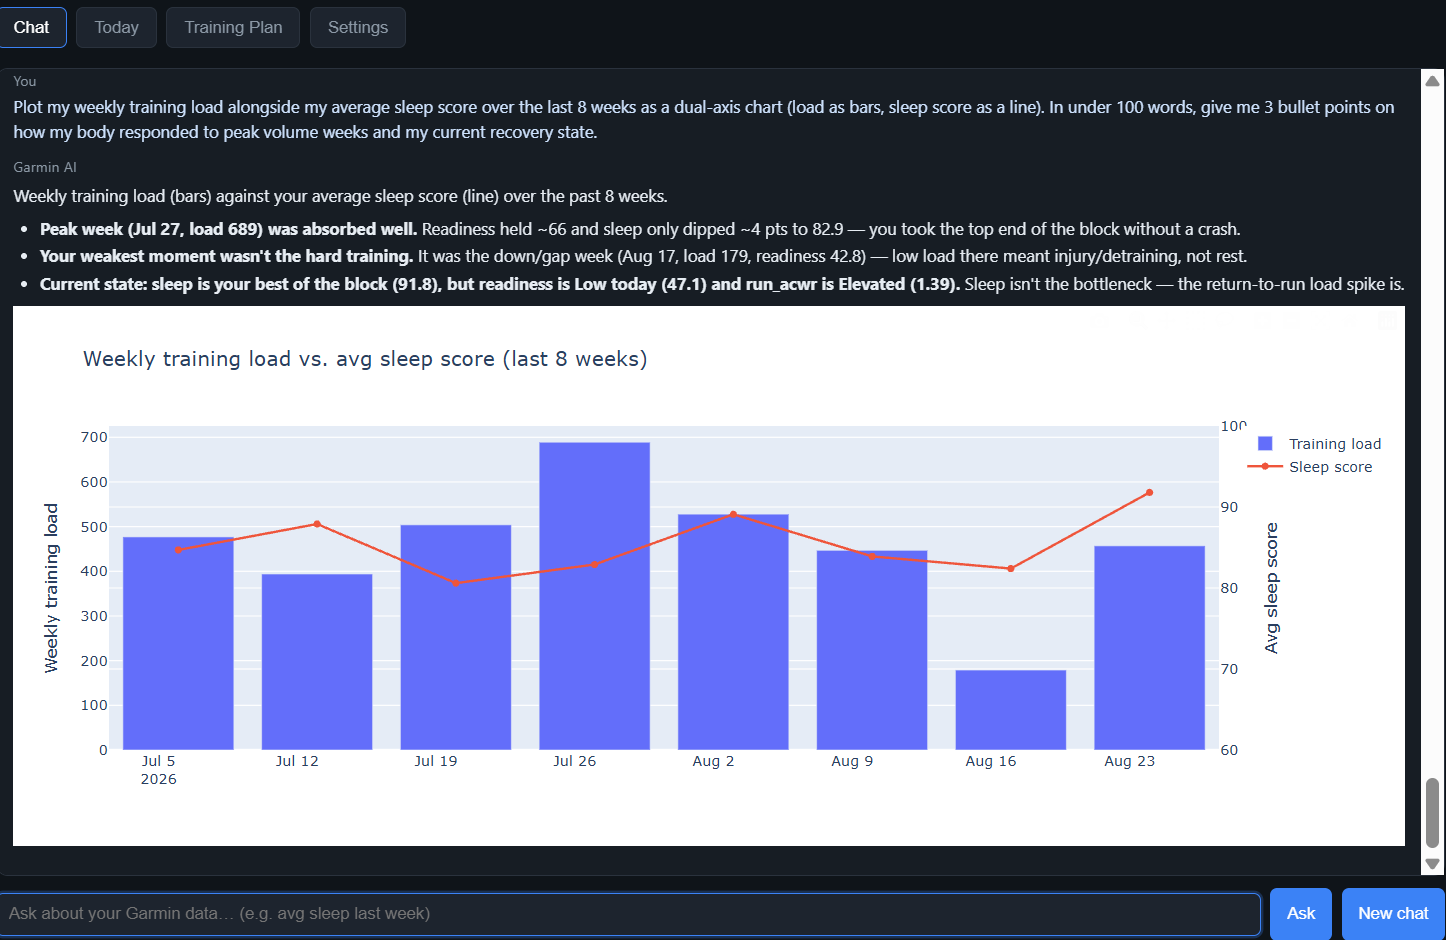
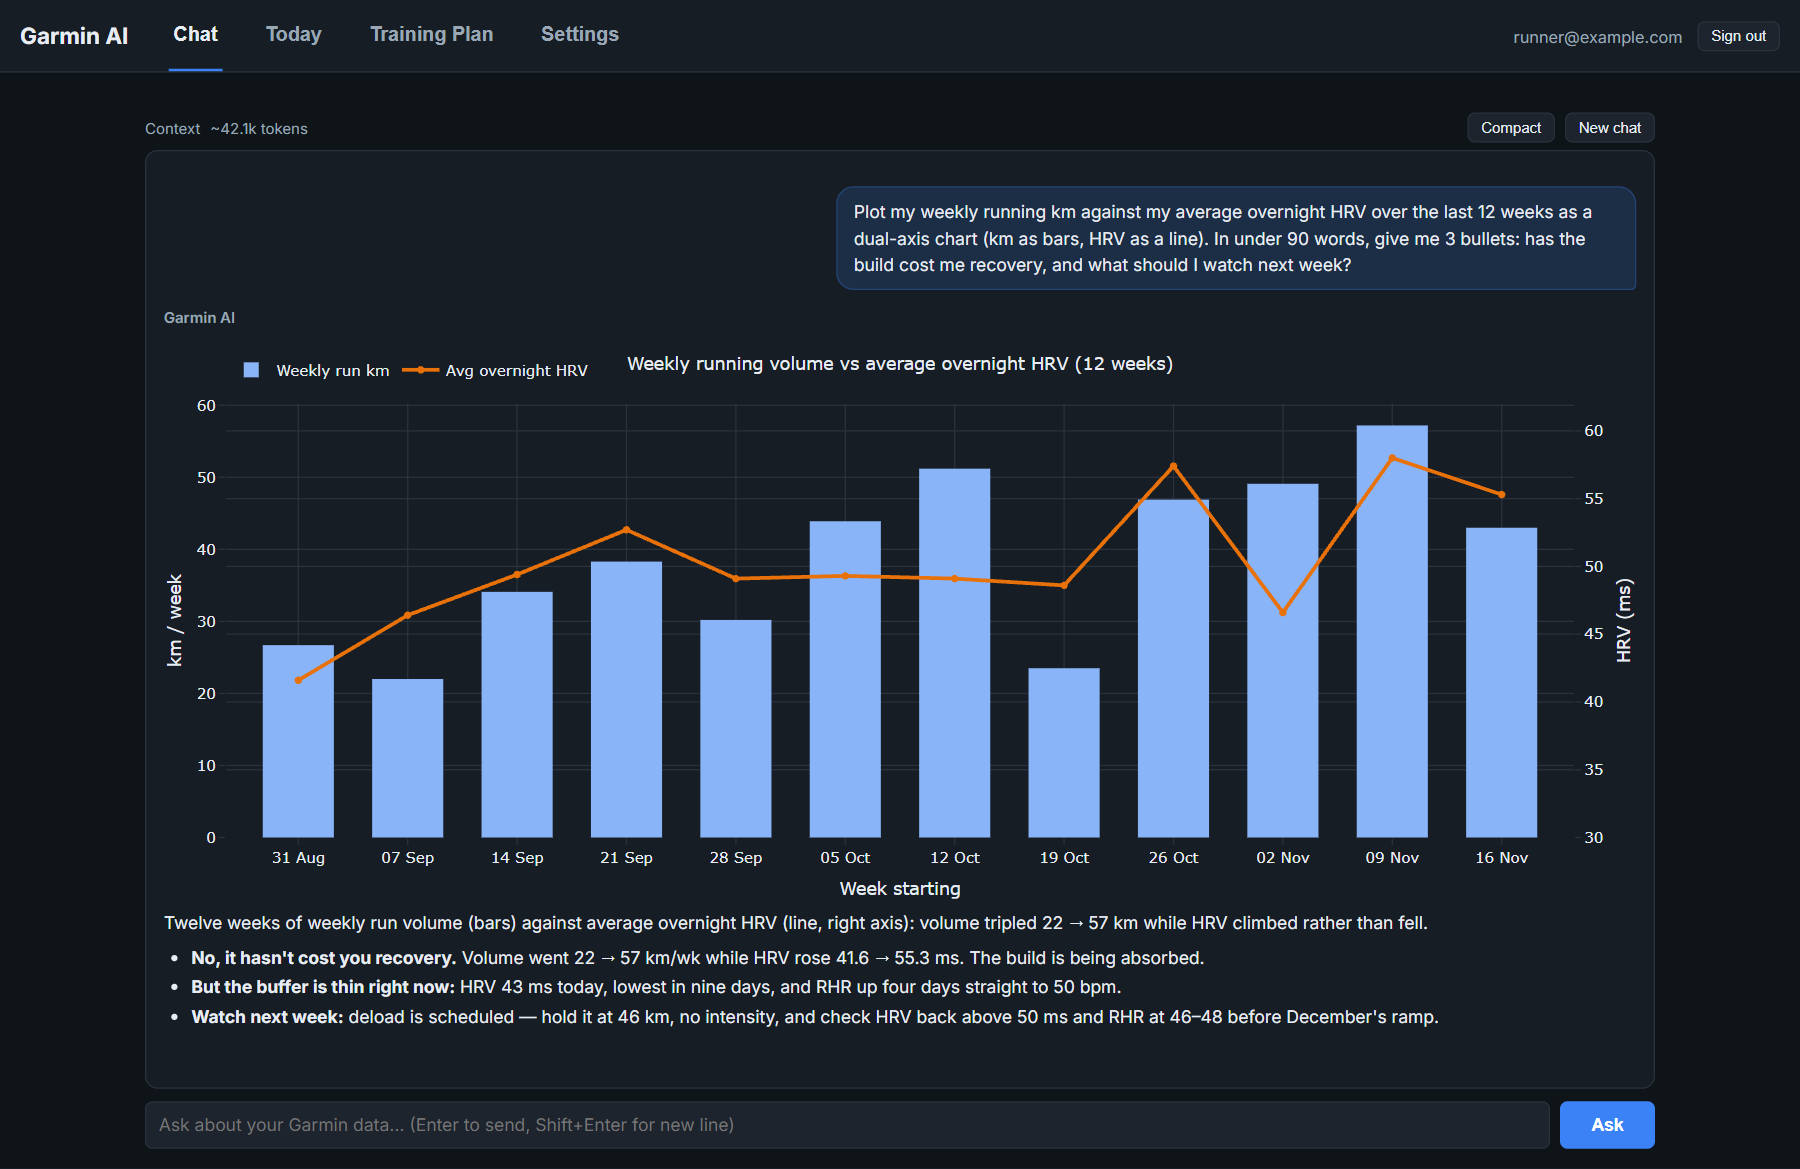
Refresh the README and its screenshots for the current app
- Cover the learned pace per HR zone, the sync's timezone and activity
  re-check, inline charts, Compact and the split training tools.
- Replace the old versioned screenshots with current chat, Today,
  Training Plan and Pace by HR Zone captures.

diff --git a/README.md b/README.md
@@ -10,7 +10,7 @@ puts a **read-only AI agent** on top of that data. The dashboard and the agent
 read the same derived metrics, so a chart on screen and an answer in chat always
 agree.
 
-![Chat with the agent: a dual-axis chart with a short analysis](images/chat.png)
+![Chat with the agent: weekly running km against overnight HRV as a dual-axis chart, with a three-bullet analysis](images/chat.png)
 
 ## Highlights
 
@@ -18,14 +18,20 @@ agree.
   across days, activities and lap splits, then reasons over what comes back.
   That covers lagged correlations ("does last night's HRV predict today's
   pace?"), root-causing a bad session from sleep, prior load and weather, and
-  spotting form breakdown under fatigue.
+  spotting form breakdown under fatigue. Charts are drawn inline, right where
+  the answer refers to them.
 - **Training load you can trust.** ACWR, a running-only ACWR (so cycling can't
   mask a running spike) and a pace-normalised cadence-drift score are computed
   once per sync and shared by the UI and the agent.
+- **Paces learned from your own runs.** Your running pace in each heart-rate
+  zone is estimated minute by minute from recent outdoor runs, relative to your
+  lactate-threshold pace, so it follows your fitness and the season. Planned
+  runs use it to estimate distance.
 - **A training plan you share with the AI.** Goals are split into periodized
-  blocks, then weekly targets, then dated workouts. You can drag workouts
-  between days, see the forecast on the calendar, or ask the agent to reshape
-  the week. One undo reverts the last destructive edit.
+  blocks, then weekly targets, then dated workouts built from structured steps.
+  You can drag workouts between days, see the forecast on the calendar, compare
+  planned with actual, or ask the agent to reshape the week. One undo reverts
+  the last destructive edit.
 - **Multi-user and isolated by design.** Every row carries a `user_id` and is
   protected by Postgres Row-Level Security. Garmin credentials are AES-GCM
   encrypted, and the agent connects through a SELECT-only role.
@@ -35,12 +41,12 @@ agree.
 
 <table>
   <tr>
-    <td><img src="images/today_tab_v2.png" alt="Today tab with ACWR and Running ACWR scorecards"></td>
-    <td><img src="images/training_plan_v4.png" alt="Training Plan calendar with weather and daily briefing"></td>
+    <td><img src="images/today.png" alt="Today tab: daily briefing with the workout's steps and weather, above the ACWR card and its history chart"></td>
+    <td><img src="images/training_plan.png" alt="Training Plan week: block progress, weekly distance target, workouts per day with weather, and planned versus actual"></td>
   </tr>
   <tr>
-    <td align="center"><b>Today</b>: ACWR and Running ACWR scorecards</td>
-    <td align="center"><b>Training Plan</b>: calendar, weather and briefing</td>
+    <td align="center"><b>Today</b>: briefing and ACWR</td>
+    <td align="center"><b>Training Plan</b>: the week, planned → actual</td>
   </tr>
 </table>
 
@@ -50,18 +56,23 @@ agree.
 Garmin Connect ─▶ sync worker ─▶ raw JSON (metrics, activities)   ◀── source of truth
                                       │
                                       ▼
-                                   parser ─▶ typed tables ─▶ derived_metrics (ACWR, run ACWR, drift)
+                                   parser ─▶ typed tables ─▶ derived_metrics (ACWR, run ACWR,
+                                                   │          drift, pace per HR zone)
                                                    │                 │
    browser (JS) ─▶ FastAPI + JWT ─▶ agent (garmin_readonly role) ◀───┘
                                      every table RLS-scoped by user_id
 ```
 
 1. **Sync.** The worker pulls daily metrics, activities (including per-second
-   detail and lap splits), profile data and an Open-Meteo forecast for
-   each account.
+   detail and lap splits), profile data and an Open-Meteo forecast for each
+   account. "Today" is the user's own day, taken from the UTC offset in their
+   data, not the server's clock. Activities in the recent window are compared
+   with Garmin's list on every sync, so edits are picked up and deletions
+   removed. Profile snapshots (zones, race predictions, gear, devices) refresh
+   once per day.
 2. **Store raw, then parse.** Raw JSON is kept as the source of truth, and
-   `parser.py` projects it into typed tables. `daily_metrics` grows new columns
-   as new fields appear.
+   `parser.py` projects it into typed tables in one transaction. `daily_metrics`
+   grows new columns as new fields appear.
 3. **Derive.** `derived.py` rebuilds `derived_metrics` wholesale after every
    sync.
 4. **Serve.** FastAPI serves the single-page UI and a JSON API. `/ask` streams
@@ -107,10 +118,12 @@ The UI has four tabs:
 
 | Tab | What's there |
 | --- | --- |
-| **Chat** | Streaming conversation with the agent, with inline charts. History persists per account and resumes on reload. Includes **New chat** and **Compact** controls and a live context-token meter. |
-| **Today** | Daily briefing, ACWR and Running ACWR scorecards. Click a card to see zones and history. |
-| **Training Plan** | Weekly calendar with weather, drag-and-drop workouts, weekly planned-vs-actual progress, goals and blocks. |
-| **Settings** | Sync controls (**Sync now**, **Sync + full re-parse**, auto-sync toggle) and per-account config: home city, excluded data types, sync start date (with **Detect from Garmin**), reasoning effort, training principles and agent memory. |
+| **Chat** | Streaming conversation with the agent, with charts drawn inline where the answer places them. The whole conversation is kept per account and resumes on reload; **Compact** replaces it with a summary (shown as a note) and **New chat** starts over. A live meter shows the context size. |
+| **Today** | Daily briefing (today's workout with its steps, and the weather), then cards for ACWR, Running ACWR and Pace by HR Zone. Open a card to see the breakdown and history. |
+| **Training Plan** | **Week** view: the current block's progress, the week's distance against its target, drag-and-drop workouts with the forecast, and a planned → actual row for completed sessions. **List** view: the next eight weeks. **Goals** edits goals, blocks and weekly targets. |
+| **Settings** | **Sync**: **Sync now**, **Sync + full re-parse**, the auto-sync toggle, the sync start date (with **Detect from Garmin**) and re-linking the Garmin login. **Preferences**: home city, excluded data types, agent reasoning effort, training principles and the agent's long-term memory. |
+
+![Pace by HR Zone card on the Today tab: learned pace for zones 1 to 5 with uncertainty and minutes of running behind each](images/zone_paces.png)
 
 ### Settings that apply retroactively
 
@@ -138,6 +151,7 @@ curl -s -X POST localhost:8000/sync       -H "$H"   # incremental sync
 curl -s -X POST localhost:8000/sync/full  -H "$H"   # sync + full re-parse from raw
 curl -s localhost:8000/acwr               -H "$H"   # ACWR series + today
 curl -s localhost:8000/run-acwr           -H "$H"   # running-only ACWR
+curl -s localhost:8000/zone-paces         -H "$H"   # learned pace per HR zone
 curl -s "localhost:8000/activities?from_date=2026-08-01&to_date=2026-08-31" -H "$H"
 curl -s "localhost:8000/weather?from_date=2026-08-24&to_date=2026-08-30"    -H "$H"
 curl -s -X POST localhost:8000/ask -H "$H" -H 'Content-Type: application/json' \
@@ -148,7 +162,7 @@ curl -s -X POST localhost:8000/ask -H "$H" -H 'Content-Type: application/json' \
 | --- | --- |
 | Auth & config | `POST /auth/register`, `POST /auth/register/mfa`, `POST /auth/login`, `POST /auth/garmin` (re-link the Garmin login), `GET /auth/me`, `GET`/`PUT /auth/config` |
 | Sync | `POST /sync`, `POST /sync/full`, `POST /sync/detect-start`, `GET /sync/status`, `POST /cron/sync` (uses `GARMIN_CRON_TOKEN`) |
-| Data | `GET /acwr`, `GET /run-acwr`, `GET /activities`, `GET /weather` |
+| Data | `GET /acwr`, `GET /run-acwr`, `GET /zone-paces`, `GET /activities`, `GET /weather` |
 | Training | `GET`/`POST /training/workouts`, `PATCH`/`DELETE /training/workouts/{id}`, `GET`/`POST /training/anchor`, `PATCH`/`DELETE /training/anchor/{goal_id}`, `POST /training/undo` |
 | Agent | `POST /ask` (SSE), `GET /ask/history`, `POST /ask/clear`, `POST /ask/compact`, `POST /ask/chart` |
 
@@ -182,16 +196,21 @@ The agent is built on Pydantic AI and is read-only at every layer:
 
 | Tool | Purpose |
 | --- | --- |
-| `table_schema`, `run_sql` | Inspect tables and run arbitrary read-only SQL |
-| `get_day_summary`, `get_metric_trend`, `get_recent_activities`, `get_activity_detail` | Fast helpers for common questions, no SQL needed |
-| `chart` | Returns a Plotly spec that the UI re-runs and renders |
+| `table_schema`, `run_sql` | Inspect one or more tables and run arbitrary read-only SQL |
+| `get_day_summary`, `get_recent_activities`, `get_activity_detail` | Fast helpers for common questions, no SQL needed |
+| `get_metric_trend` | Several daily metrics side by side, each with its last-7-day average against your normal level |
+| `chart` | Validates a Plotly spec against the query result and returns a chart id; the answer places it with `<chart id="…"/>` and the UI renders it there |
 | `weather` | Stored forecast and per-activity observed weather |
 | `memory` | Long-term notes about the user (never facts that the DB already holds) |
-| `training` | `get` returns the season with the resolved current block and week plus planned-vs-actual coverage. `apply` performs one atomic edit (or `undo`). |
+| `training` | Reads the season: goals, the resolved current block and week, planned-vs-actual coverage, and warnings for runs whose distance disagrees with their steps |
+| `training_apply` | One atomic, typed edit to the plan (or `undo`) |
 
-The agent never writes health data. Edits to the plan, memory and session go
-through the app's own stores. Tool outputs are trimmed before they are saved to
-history to keep context small.
+The system prompt carries the user's own "today" and their learned zone paces.
+The agent never writes health data: edits to the plan, memory and session go
+through the app's own stores. To keep context small, past reasoning is dropped
+from the stored session and tool outputs are trimmed before they are saved.
+Some models occasionally write a tool call into their reply as text; that
+markup is stripped and the model is sent back once to make the call properly.
 
 ## Derived metrics
 
@@ -207,6 +226,17 @@ history to keep context small.
 - **Cadence drift** (`run_cadence_drift`): a cadence z-score against your own
   cadence-vs-pace fit over the trailing 90 days. A negative score means
   overstriding or worse mechanics.
+- **Pace per HR zone** (`zone_pace.py`, `zone_pace_z1`…`z5`): each zone's pace
+  is modelled as a ratio to your current lactate-threshold pace. The prior is
+  Joe Friel's run pace zones; the evidence is one-minute windows from recent
+  outdoor runs, grouped by HR zone and weighted by recency (30-day half-life).
+  Warm-ups, stops and treadmill runs are left out, and a higher zone is never
+  slower than a lower one.
+
+Planned workouts use these values too. A workout's duration is the sum of its
+steps, and a run's distance is checked against an estimate built from each
+step's pace or zone pace: a missing distance is filled in, and a large mismatch
+comes back as a warning.
 
 ## Data model
 
@@ -226,12 +256,12 @@ Every data table is keyed by `(user_id, …)` and has `FORCE ROW LEVEL SECURITY`
 | `hr_zones`, `power_zones` | Per-sport zone ranges (and FTP) from the device profile |
 | `race_predictions` | Current 5k, 10k, half and full predictions |
 | `user_profile`, `gear`, `devices` | Profile snapshots, current gear with totals, current devices |
-| `derived_metrics` | `(calendar_date, metric)` rows for ACWR, run ACWR and cadence drift. Replaced each sync. |
+| `derived_metrics` | `(calendar_date, metric)` rows for ACWR, run ACWR, cadence drift and zone paces. Replaced each sync. |
 | `weather_forecast` | Stored daily Open-Meteo forecast, refreshed each sync |
 | `training_goal` | Goals (one per event) with sport, start date and target date |
 | `training_block` | Periodized phases of a goal, with name, focus, dates and baseline weekly km |
 | `training_week` | Per-week targets (distance, duration, deload flag) keyed by Monday |
-| `training_workout` | Dated workouts with a status (`planned`, `completed`, `partial` or `skipped`) and target pace, HR zone or power |
+| `training_workout` | Dated workouts with structured steps, a status (`planned`, `completed`, `partial` or `skipped`) and target pace, HR zone or power |
 | `user_state` | Agent memory, chat history, tool trace and the season undo snapshot |
 
 ## Configuration
@@ -291,8 +321,10 @@ src/garmin_fetch/
   derived.py        rebuilds derived_metrics
   workload.py       ACWR
   run_workload.py   running ACWR + cadence drift
+  zone_pace.py      learned pace per HR zone
   ask.py            the read-only agent and its tools
-  chat_format.py    answer/session shaping shared by the server and Gradio UI
+  tool_args.py      lenient argument types for the agent's tools
+  chat_format.py    answer/session shaping (charts, leaked tool calls) for server and Gradio UI
   ask_web.py        legacy Gradio UI (optional extra)
   trace.py          per-turn tool-call tracing
   config.py         .env loading
@@ -304,7 +336,7 @@ src/garmin_fetch/
     sync_worker.py  worker pool, APScheduler cron, backoff
     geocode.py      home city → lat/lon
     setup_db.py     role bootstrap
-    state/          agent memory/session/trace + training season store
+    state/          agent memory/session/trace, training season store + agent training tools
     static/         index.html (the whole frontend)
 docker/initdb/      role bootstrap for a fresh Postgres volume
 ```
